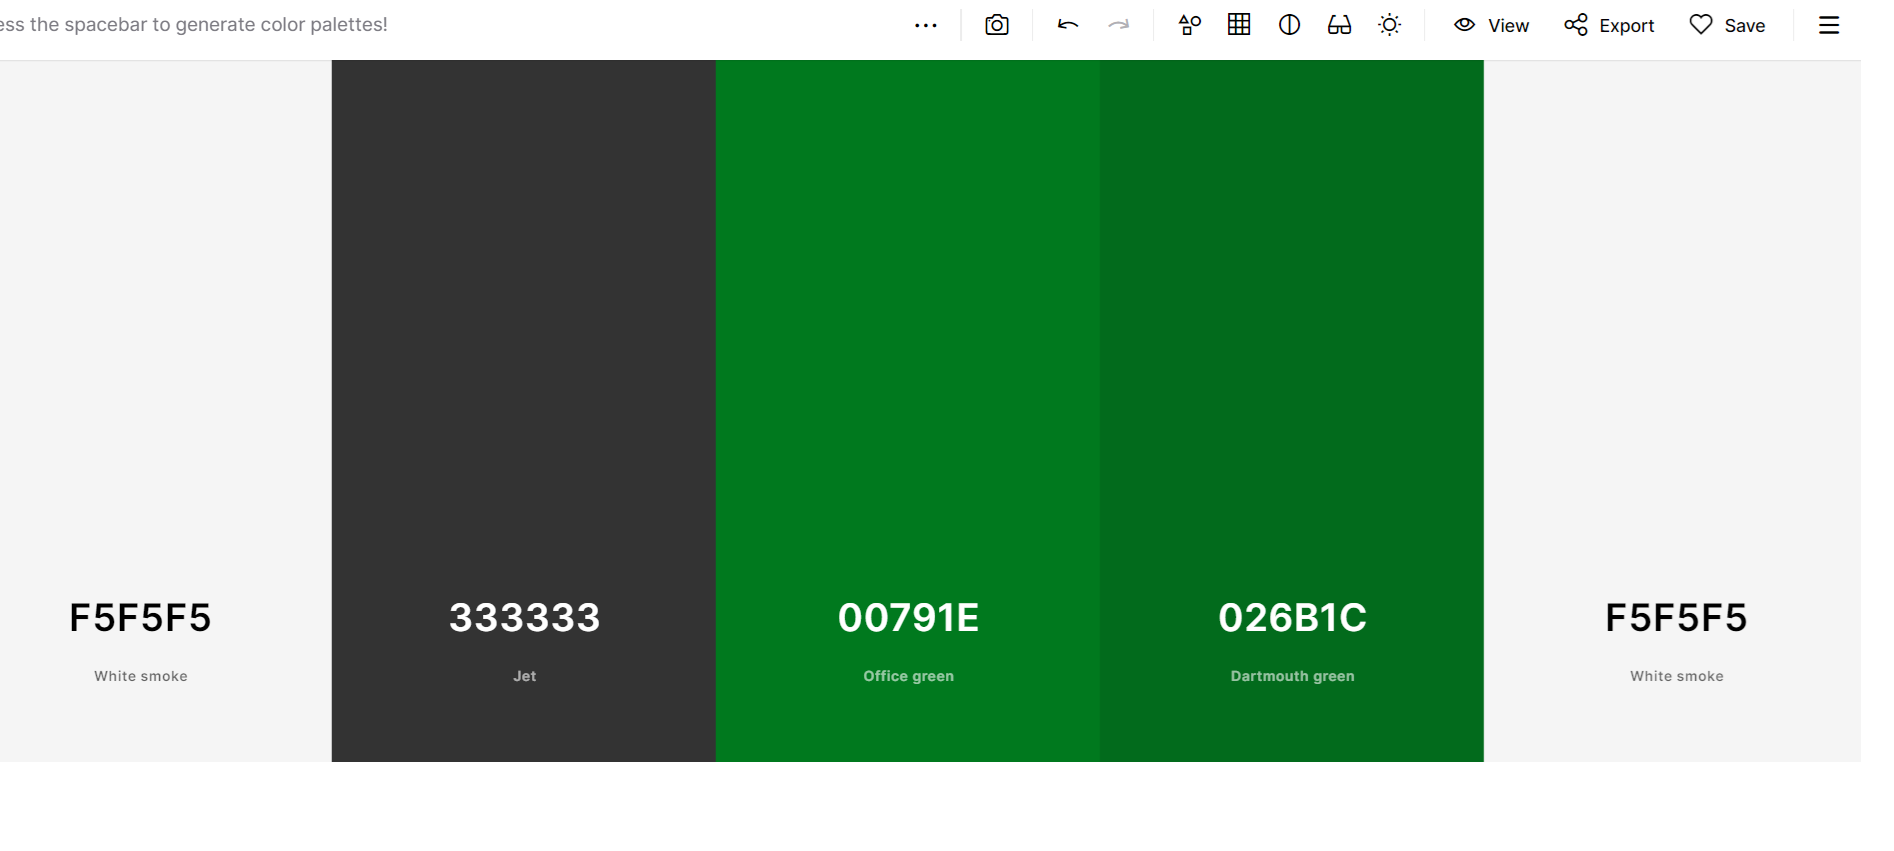
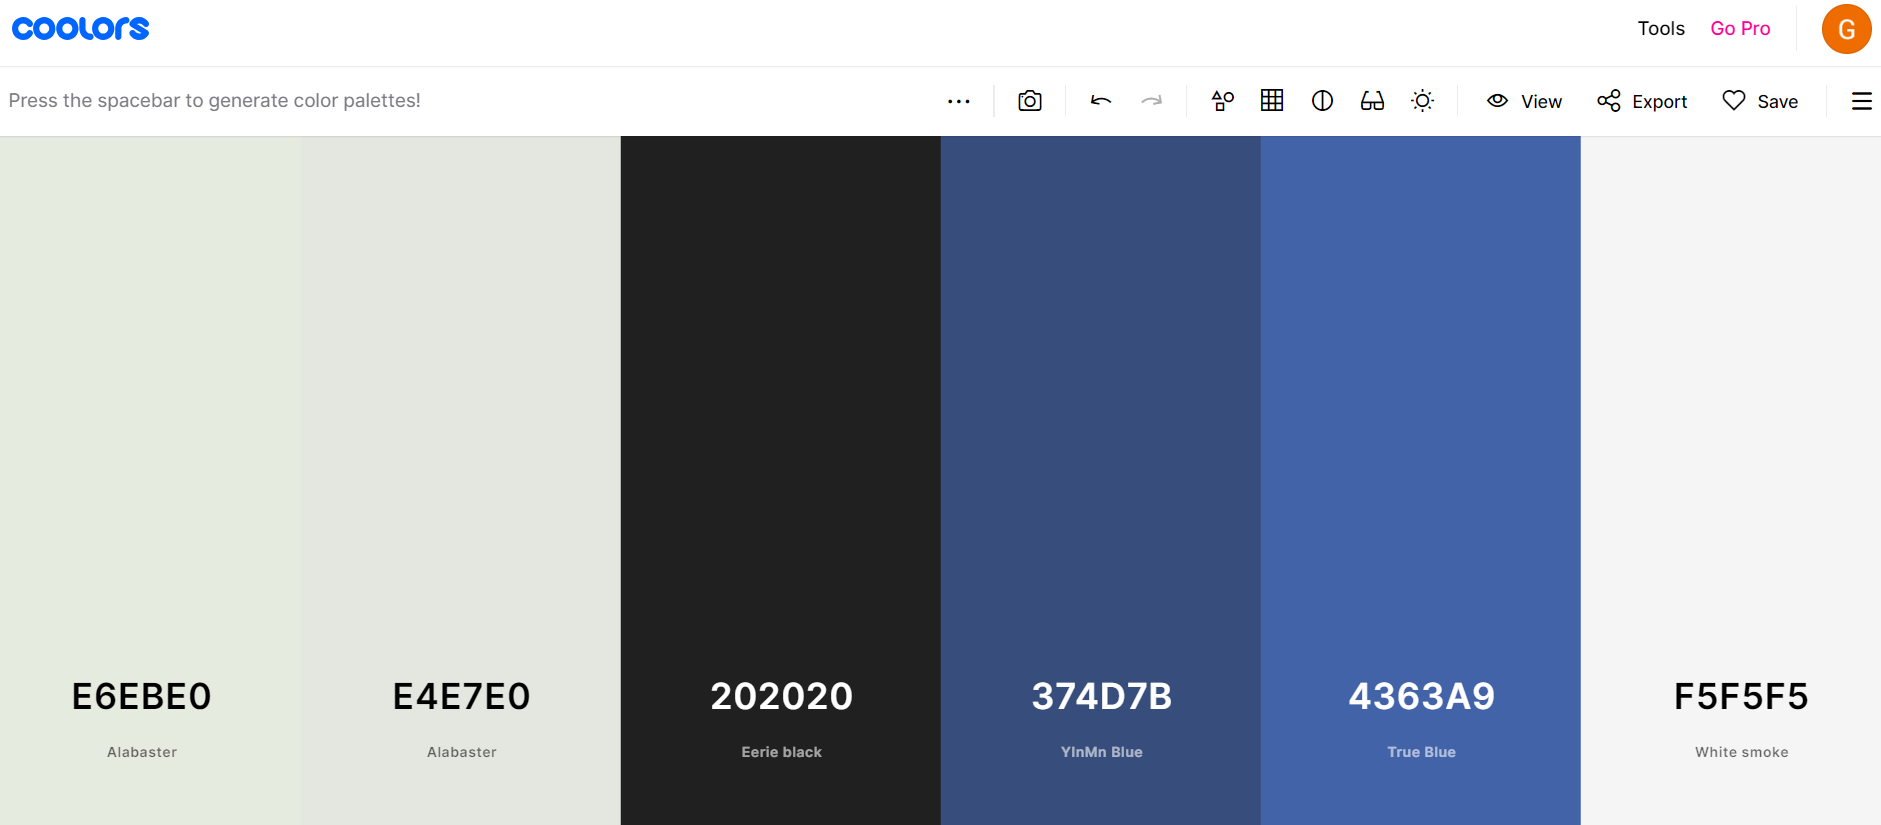
change colours as the green is similar to correct answer

diff --git a/assets/css/styles.css b/assets/css/styles.css
@@ -1,10 +1,10 @@
 /* Global Styles */
 :root {
-    background-color: #f5f5f5;
-    --color-bg:#f3f1f798;
-    --color-txt:#333;
-    --color-main:#00791e;
-    --color-hover:#0b5f0dd7;
+    background-color: #E6EBE0;
+    --color-bg:#E4E7E0;
+    --color-txt:#202020;
+    --color-main:#374D7B;
+    --color-hover:#4363A9;
     --color-white:#f5f5f5;
 }
 
@@ -102,7 +102,7 @@ h3{
 
 .question {
     font-size: 2.5rem;
-    color: var(--color-hover);
+    color: var(--color-main);
     margin-bottom: 2rem;
     text-align: center;
 }
@@ -124,7 +124,7 @@ h3{
     padding: 1rem 1.5rem;
     font-size: 1.4rem;
     cursor: pointer;
-    background-color: var(--color-hover);
+    background-color: var(--color-main);
     color: var(--color-white);
     border: 0.2rem solid transparent;
     border-radius: 0.5rem;
@@ -136,7 +136,7 @@ h3{
 }
 
 .btn:hover {
-    background-color: var(--color-main);
+    background-color: var(--color-hover);
     box-shadow: 0 0.4rem 1.4rem 0 rgba(86, 185, 235, 0.5);
     transform: translateY(-0.1rem);
     border-color: transparent;
@@ -152,7 +152,7 @@ h3{
     margin-bottom: 1rem;
     padding: 0.6rem 1.2rem;
     font-size: 1.4rem;
-    background-color: var(--color-hover);
+    background-color: var(--color-main);
     color: var(--color-white);
     border: none;
     border-radius: 0.5rem;
@@ -161,7 +161,7 @@ h3{
 }
 
 .option:hover {
-    background-color: var(--color-main);
+    background-color: var(--color-hover);
 }
 
 .option.correct {

diff --git a/README.md b/README.md
@@ -177,7 +177,9 @@ Font-family used  'Montserrat', sans-serif.
 -	Provides buttons to navigate to the game page or the rules page.
 
 ![homePage](./assets/images/home.png)
+
 2.	Game Page (start-game.html):
+
 -	Displays the game interface where questions are shown.
 -	Each question has multiple choice options for answers.
 
